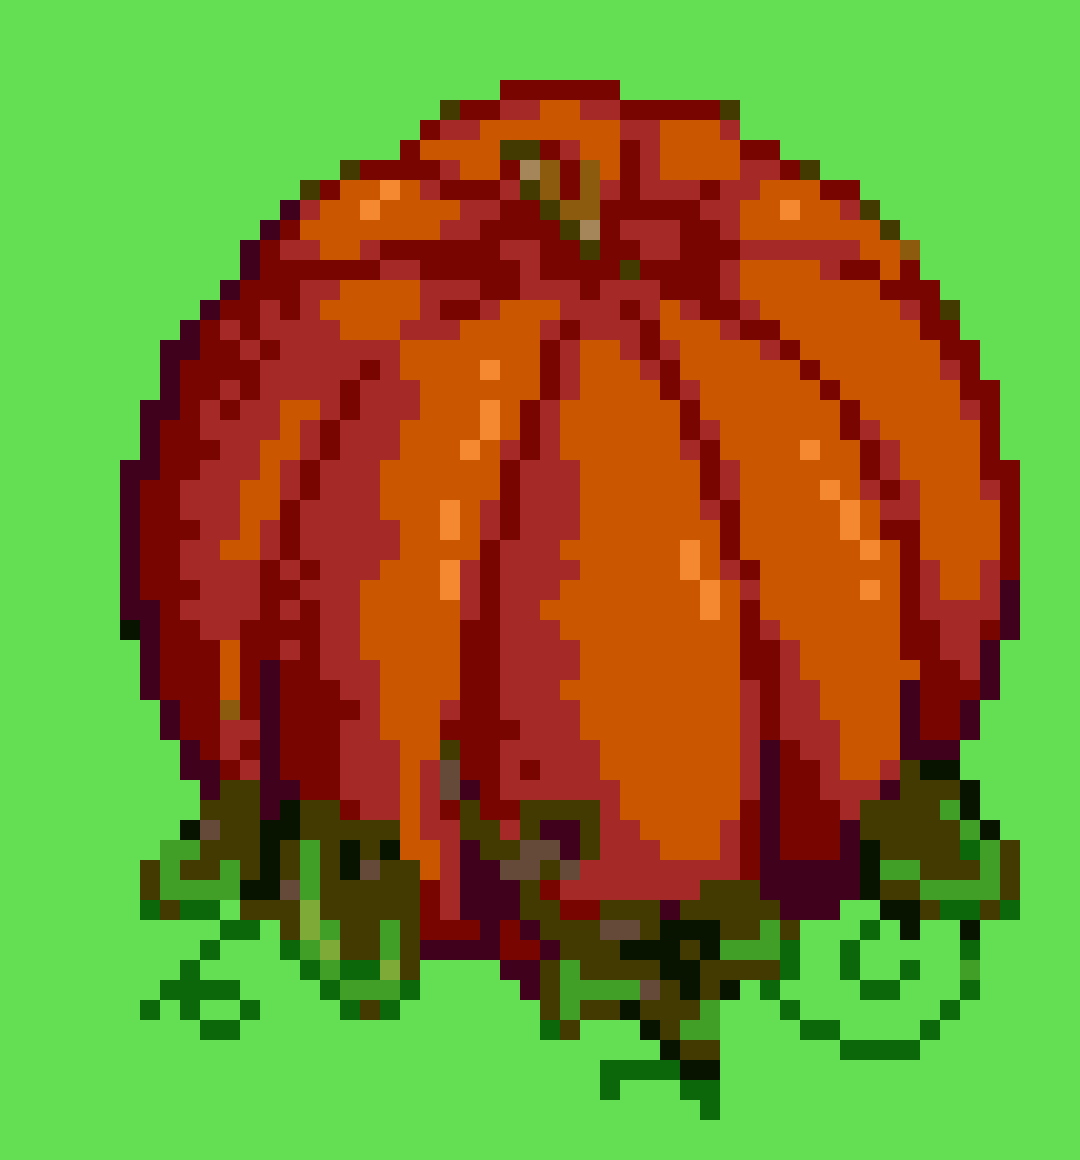
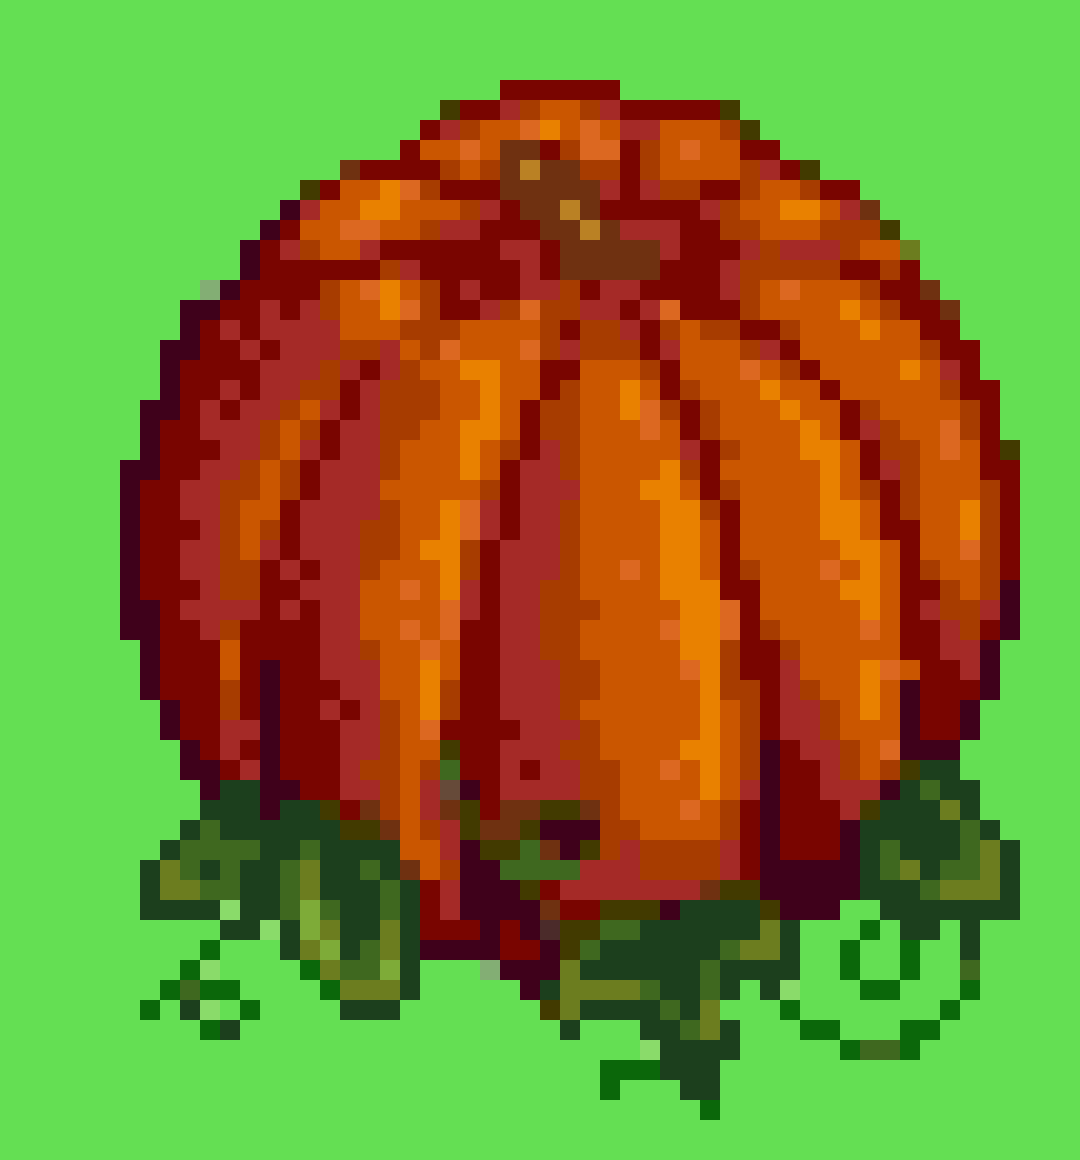
Replaced pumpkin image with one generated using more colors

diff --git a/gen_pixel_art/generate.py b/gen_pixel_art/generate.py
@@ -21,7 +21,7 @@ def generate_pixel_art(img_path: Path, output_dir: Path, num_colors: int = 16, s
 def main():
     data_dir = Path.cwd() / "data"
 
-    num_colors = 16
+    num_colors = 24
 
     img_paths = [
         data_dir / "characters" / "warrior.png",
